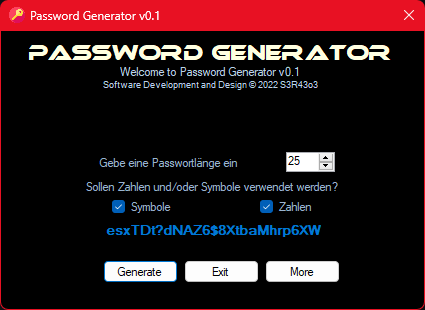
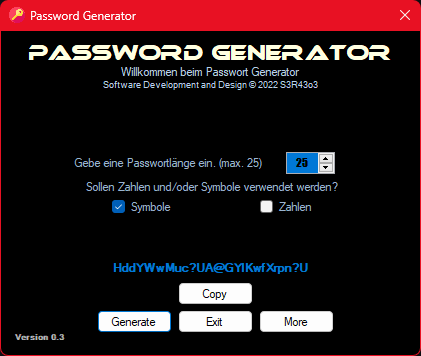
update image

diff --git a/Form1.Designer.cs b/Form1.Designer.cs
@@ -139,7 +139,7 @@ namespace PasswordGenerator
             this.label1.Name = "label1";
             this.label1.Size = new System.Drawing.Size(221, 20);
             this.label1.TabIndex = 7;
-            this.label1.Text = "Gebe eine Passwortlänge ein. (max. 50)";
+            this.label1.Text = "Gebe eine Passwortlänge ein. (max. 25)";
             this.label1.TextAlign = System.Drawing.ContentAlignment.MiddleCenter;
             // 
             // checkboxSymbol
@@ -172,7 +172,7 @@ namespace PasswordGenerator
             this.lengthedit.Font = new System.Drawing.Font("Impact", 8.75F);
             this.lengthedit.Location = new System.Drawing.Point(285, 121);
             this.lengthedit.Maximum = new decimal(new int[] {
-            40,
+            25,
             0,
             0,
             0});
